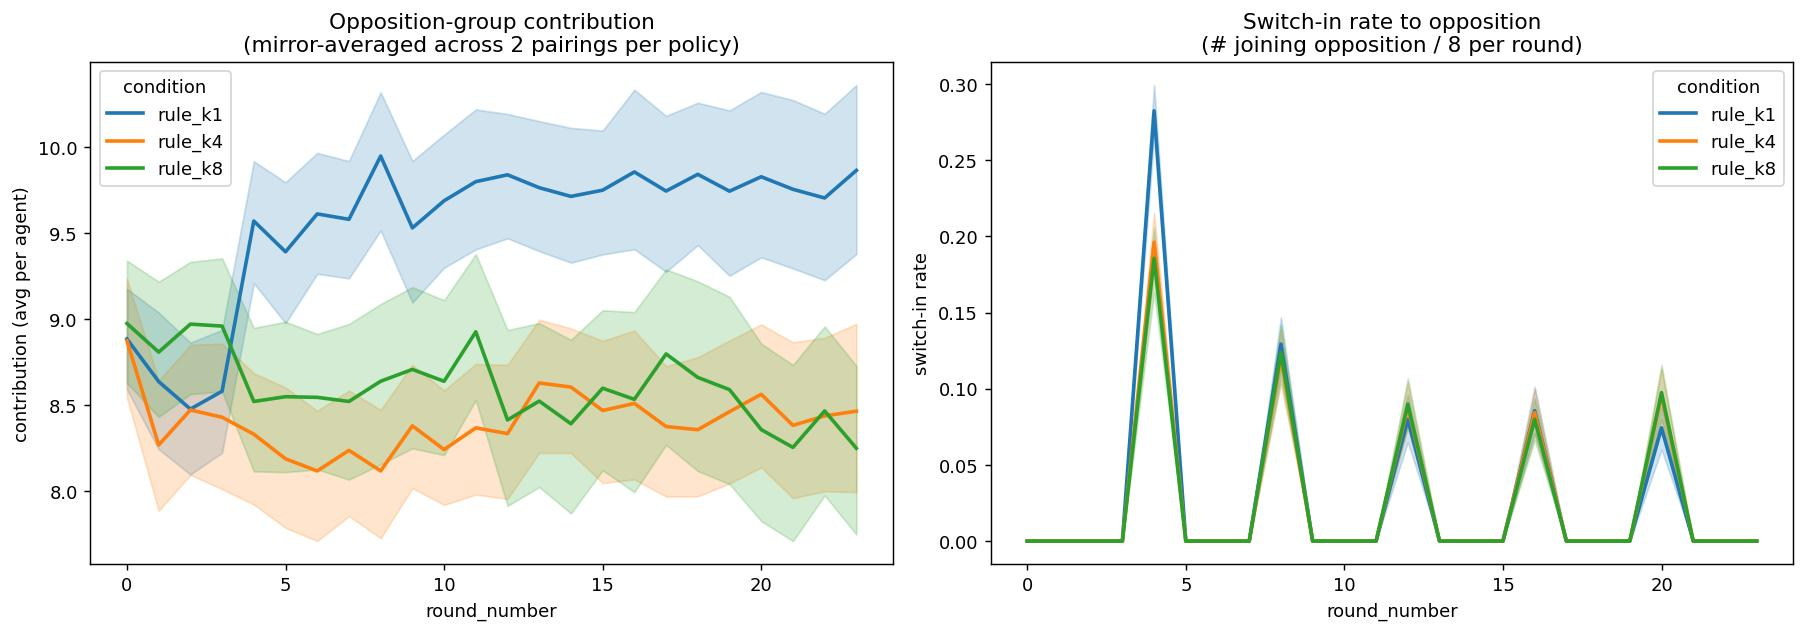
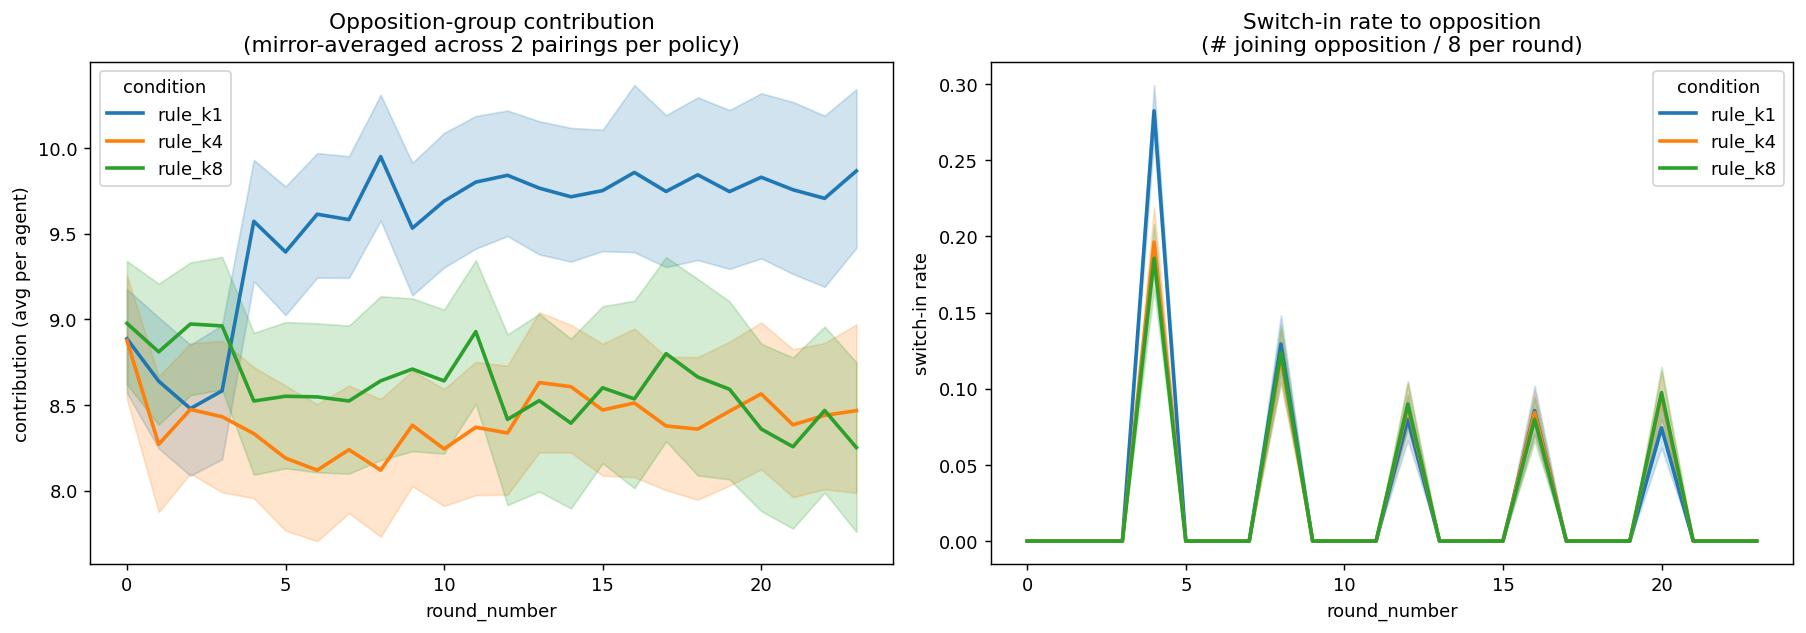
Add stayer/leaver/joiner breakdown plot around first switch (#103)
- Per-policy facets showing stayer / leaver / joiner contribution
  trajectories around round 4, with tinted dashed reference lines for
  the same agents' behavior in the rule group.

diff --git a/scripts/plotting/plot_sim_opposition_behavior.py b/scripts/plotting/plot_sim_opposition_behavior.py
@@ -3,12 +3,19 @@
 For each pair of managers (X, opposition) that appears as both
 `X_vs_<opposition>` and `<opposition>_vs_X`, computes the opposition group's
 behavior averaged across the two mirror pairings: contribution per round and
-switch-in rate per round. Emits one chart with two side-by-side line plots,
-one line per X (the policy of interest).
+switch-in rate per round. Emits two charts:
+
+1. opposition_behavior.jpg: 2-panel line plot — opposition contribution and
+   switch-in rate vs round.
+2. opposition_first_switch_breakdown.jpg: per-policy faceted line plot of
+   opposition-group contribution split into stayer / leaver / joiner roles
+   around the first switch. Each role's curve only spans the rounds where
+   the agent is actually in the opposition group.
 
 Usage:
     python scripts/plotting/plot_sim_opposition_behavior.py <sim_dir> \\
         [--opposition zero_punishment] [--managers M1 M2 ...] [--out FILE] \\
+        [--breakdown-out FILE] [--switch-round 4] [--n-rounds-shown 8] \\
         [--n-agents 8]
 
 Examples:
@@ -99,6 +106,141 @@ def compute_metrics(df, mirror_pairs, n_agents):
     return contr, switches
 
 
+def first_switch_role_frame(
+    df, mirror_pairs, switch_round: int, n_rounds_shown: int
+):
+    # For each (pairing, episode, participant) classify by group membership
+    # at switch_round-1 (pre) and switch_round (post) relative to that
+    # pairing's opposition group, and return the full trajectory plus an
+    # is_opp flag so downstream plotting can render out-of-opposition
+    # segments separately as reference lines.
+    cond_map, opp_g_map = {}, {}
+    for policy, entries in mirror_pairs.items():
+        for pairing, opp_g in entries:
+            cond_map[pairing] = policy
+            opp_g_map[pairing] = opp_g
+    df = df[df["pairing"].isin(cond_map)].copy()
+    df["condition"] = df["pairing"].map(cond_map)
+    df["opp_g"] = df["pairing"].map(opp_g_map)
+    df["is_opp"] = df["group_id"] == df["opp_g"]
+    df = df[df["round_number"] < n_rounds_shown]
+
+    key = ["pairing", "episode", "participant_code"]
+    pre = (
+        df[df["round_number"] == switch_round - 1]
+        .set_index(key)["group_id"]
+        .rename("pre_g")
+    )
+    post = (
+        df[df["round_number"] == switch_round]
+        .set_index(key)["group_id"]
+        .rename("post_g")
+    )
+    roles = pd.concat([pre, post], axis=1).reset_index()
+    opp_lookup = (
+        df[key + ["opp_g", "condition"]].drop_duplicates(subset=key)
+    )
+    roles = roles.merge(opp_lookup, on=key)
+    roles = roles.dropna(subset=["pre_g", "post_g"])
+    roles["role"] = "other"
+    in_pre = roles["pre_g"] == roles["opp_g"]
+    in_post = roles["post_g"] == roles["opp_g"]
+    roles.loc[in_pre & in_post, "role"] = "stayer"
+    roles.loc[in_pre & ~in_post, "role"] = "leaver"
+    roles.loc[~in_pre & in_post, "role"] = "joiner"
+    roles = roles[roles["role"] != "other"]
+
+    return df.merge(roles[key + ["role"]], on=key)
+
+
+def plot_first_switch_breakdown(
+    df,
+    mirror_pairs,
+    out_path: str,
+    switch_round: int = 4,
+    n_rounds_shown: int = 8,
+):
+    frame = first_switch_role_frame(
+        df, mirror_pairs, switch_round, n_rounds_shown
+    )
+    in_opp = frame[frame["is_opp"]]
+    leaver_after = frame[(frame["role"] == "leaver") & (~frame["is_opp"])]
+    joiner_before = frame[(frame["role"] == "joiner") & (~frame["is_opp"])]
+    policies = sorted(mirror_pairs.keys())
+    role_palette = {"stayer": "C0", "leaver": "C3", "joiner": "C2"}
+    # Desaturated tints for the out-of-opposition reference segments —
+    # keeps the role identity visible while signalling "reference / not
+    # in opposition this round".
+    leaver_ref_color = sns.desaturate(role_palette["leaver"], 0.25)
+    joiner_ref_color = sns.desaturate(role_palette["joiner"], 0.25)
+    n = len(policies)
+    fig, axes = plt.subplots(1, n, figsize=(5 * n, 5), sharey=True)
+    if n == 1:
+        axes = [axes]
+    for ax, policy in zip(axes, policies):
+        sns.lineplot(
+            data=in_opp[in_opp["condition"] == policy],
+            x="round_number",
+            y="contribution",
+            hue="role",
+            ax=ax,
+            palette=role_palette,
+            errorbar=("ci", 95),
+            linewidth=2,
+            hue_order=["stayer", "leaver", "joiner"],
+            legend=False,
+        )
+        for ref, color in (
+            (leaver_after, leaver_ref_color),
+            (joiner_before, joiner_ref_color),
+        ):
+            sub_ref = ref[ref["condition"] == policy]
+            if not sub_ref.empty:
+                sns.lineplot(
+                    data=sub_ref,
+                    x="round_number",
+                    y="contribution",
+                    ax=ax,
+                    color=color,
+                    errorbar=("ci", 95),
+                    linewidth=1.5,
+                    linestyle="--",
+                    legend=False,
+                )
+        ax.axvline(switch_round - 0.5, ls="--", color="gray", alpha=0.6)
+        ax.set_title(policy)
+        ax.set_xlabel("round_number")
+        ax.set_xticks(range(n_rounds_shown))
+    axes[0].set_ylabel("contribution (avg per agent)")
+    from matplotlib.lines import Line2D
+    handles = [
+        Line2D([0], [0], color=role_palette["stayer"], lw=2, label="stayer"),
+        Line2D([0], [0], color=role_palette["leaver"], lw=2, label="leaver (in opposition)"),
+        Line2D([0], [0], color=role_palette["joiner"], lw=2, label="joiner (in opposition)"),
+        Line2D([0], [0], color=leaver_ref_color, lw=1.5, ls="--",
+               label="leaver (post-leave, in rule group)"),
+        Line2D([0], [0], color=joiner_ref_color, lw=1.5, ls="--",
+               label="joiner (pre-join, in rule group)"),
+    ]
+    fig.legend(
+        handles=handles,
+        loc="lower center",
+        ncol=5,
+        bbox_to_anchor=(0.5, -0.02),
+        frameon=False,
+        fontsize=9,
+    )
+    fig.suptitle(
+        "Opposition-group contribution by role around the first switch "
+        f"(round {switch_round}); solid = while in opposition, "
+        "dashed tinted = same agents while in the rule group",
+        fontsize=11,
+    )
+    fig.tight_layout(rect=[0, 0.05, 1, 1])
+    fig.savefig(out_path, dpi=130, bbox_inches="tight")
+    plt.close(fig)
+
+
 def main() -> None:
     parser = argparse.ArgumentParser(description=__doc__)
     parser.add_argument("sim_dir", help="Sim output directory with per_round.parquet")
@@ -118,6 +260,24 @@ def main() -> None:
         "--n-agents", type=int, default=8, help="Total agents per run (default 8)"
     )
     parser.add_argument("--out", default=None, help="Output image path")
+    parser.add_argument(
+        "--breakdown-out",
+        default=None,
+        help="Output path for the first-switch role breakdown plot "
+        "(default: <sim_dir>/opposition_first_switch_breakdown.jpg)",
+    )
+    parser.add_argument(
+        "--switch-round",
+        type=int,
+        default=4,
+        help="Round at which the first switch occurs (default 4)",
+    )
+    parser.add_argument(
+        "--n-rounds-shown",
+        type=int,
+        default=8,
+        help="Number of rounds to include in the breakdown plot (default 8)",
+    )
     args = parser.parse_args()
 
     df = load_per_round(args.sim_dir)
@@ -181,6 +341,18 @@ def main() -> None:
     fig.savefig(out, dpi=130, bbox_inches="tight")
     plt.close(fig)
     print(f"saved {out}")
+
+    breakdown_out = args.breakdown_out or os.path.join(
+        args.sim_dir, "opposition_first_switch_breakdown.jpg"
+    )
+    plot_first_switch_breakdown(
+        df,
+        mp,
+        breakdown_out,
+        switch_round=args.switch_round,
+        n_rounds_shown=args.n_rounds_shown,
+    )
+    print(f"saved {breakdown_out}")
 
 
 if __name__ == "__main__":
